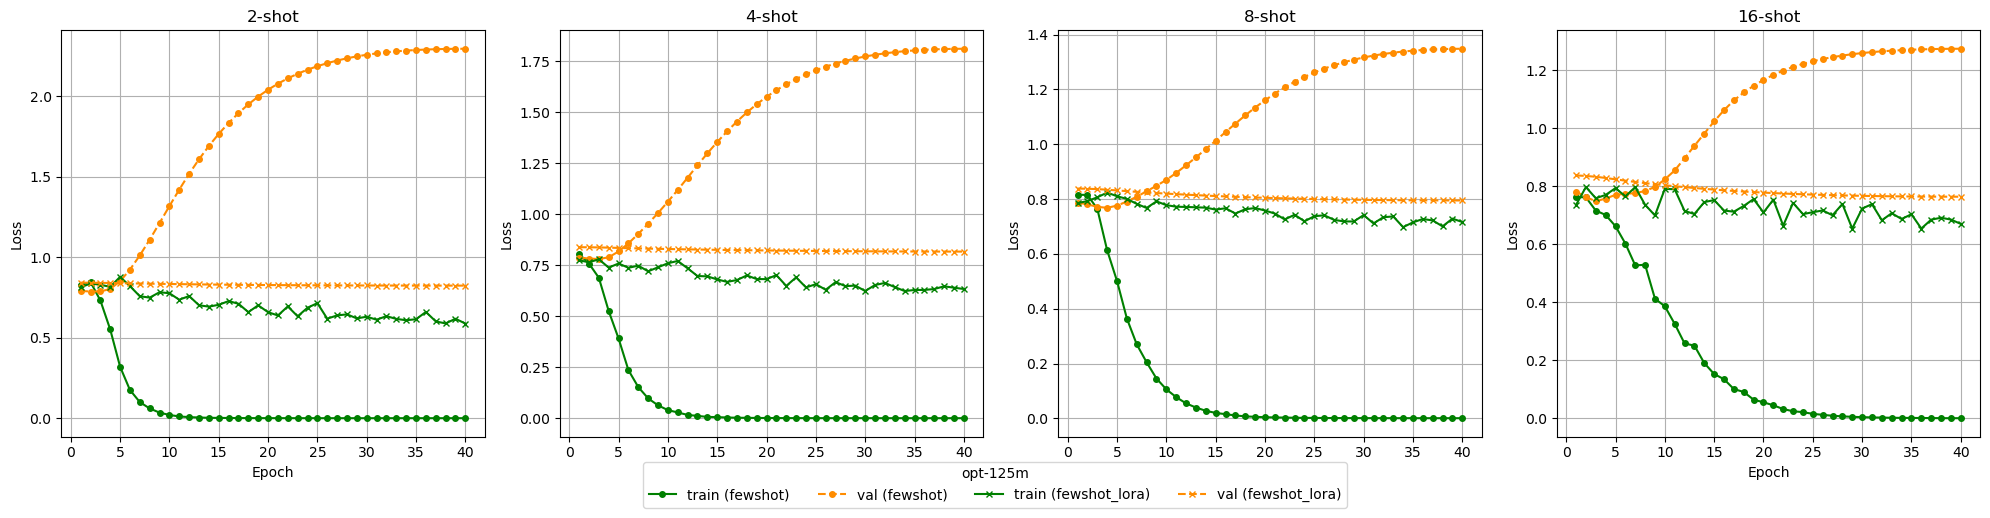
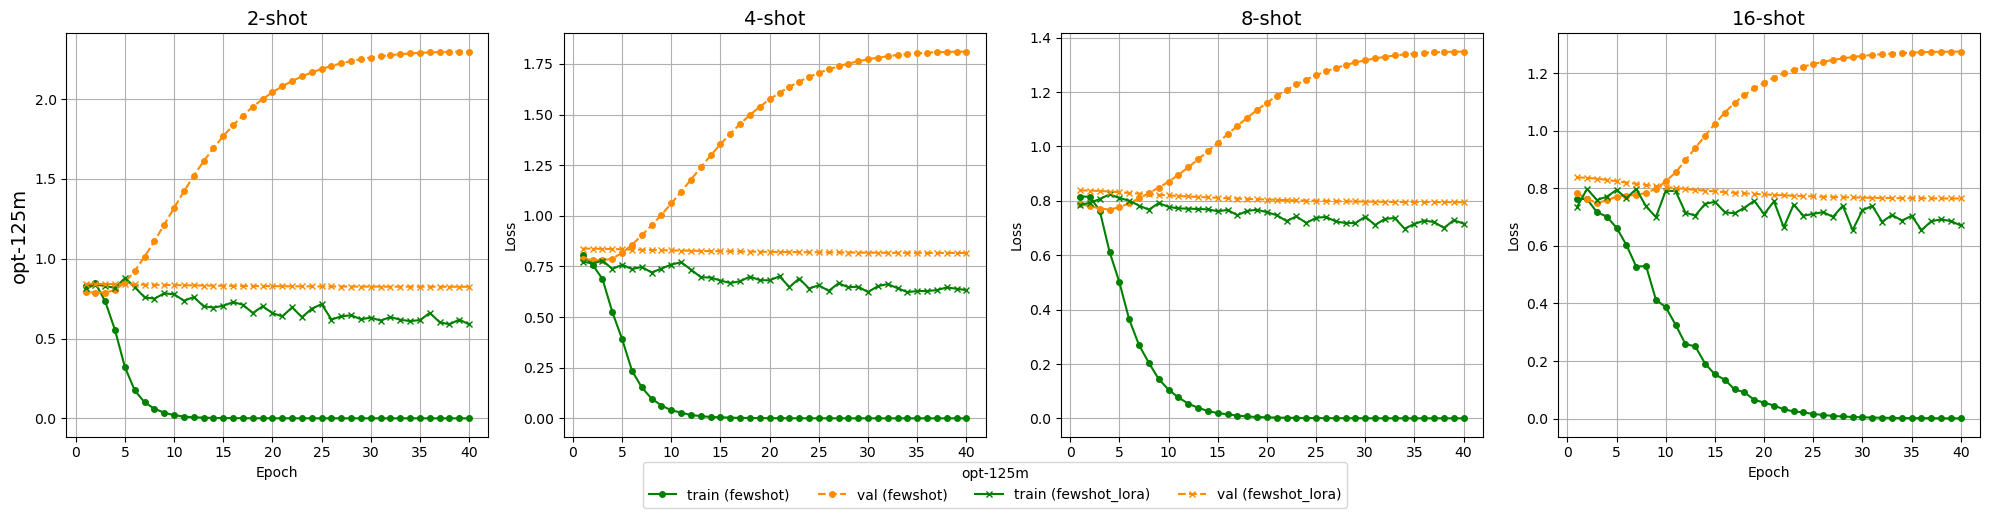
update plot font size

diff --git a/src/visualization/plot.py b/src/visualization/plot.py
@@ -146,9 +146,12 @@ def plot_in_out_domain_subplots(logfiles, metrics=['accuracy', 'runtime', 'peak_
                 title = "Peak Memory Usage (GB)"
             else:
                 title = f"{metric.capitalize()}"
-            ax.set_title(title)
-            ax.set_xlabel('In-domain')
-            ax.set_ylabel('Out-of-domain')
+            ax.set_title(title, size=14)
+            if subplot == 0:
+                ax.set_ylabel(f'{model_name}', size=14)
+            else:
+                ax.set_ylabel('Out-of-domain')
+            ax.set_xlabel('In-Domain')
             ax.grid(True)
             
             # Equalize axes and plot diagonal line
@@ -172,7 +175,7 @@ def plot_in_out_domain_subplots(logfiles, metrics=['accuracy', 'runtime', 'peak_
         handles, labels = ax.get_legend_handles_labels()
         sorted_handles_labels = sorted(zip(handles, labels), key=lambda x: x[1])
         sorted_handles, sorted_labels = zip(*sorted_handles_labels)
-        fig.legend(sorted_handles, sorted_labels, bbox_to_anchor=(0.995, 0.948), loc='upper left', ncol=1, title=group)
+        fig.legend(sorted_handles, sorted_labels, bbox_to_anchor=(0.995, 0.94), loc='upper left', ncol=1, title=group)
 
         plt.tight_layout()
         filepath = os.path.join(get_project_root(), 'experiments/figures', f"metrics_{group}.png")
@@ -219,10 +222,13 @@ def plot_learning_curves(logfiles, subplot=True):
                     ax.plot(avg_train_loss.index, avg_train_loss, linestyle='-', marker=marker, markersize=4, color='g', label=f'train ({finetuning_method})')
                     ax.plot(avg_val_loss.index, avg_val_loss, linestyle='--', marker=marker, markersize=4, color='darkorange', label=f'val ({finetuning_method})')
 
-                    ax.set_title(f'{sample_size}-shot')
+                    ax.set_title(f'{sample_size}-shot', size=14)
                     if subplot in [0, 3]:
                         ax.set_xlabel('Epoch')
-                    ax.set_ylabel('Loss')
+                    if subplot == 0:
+                        ax.set_ylabel(f'{model_name}', size=14)
+                    else:
+                        ax.set_ylabel('Loss')
                     ax.grid(True)
                     
             # Sort and move legend
